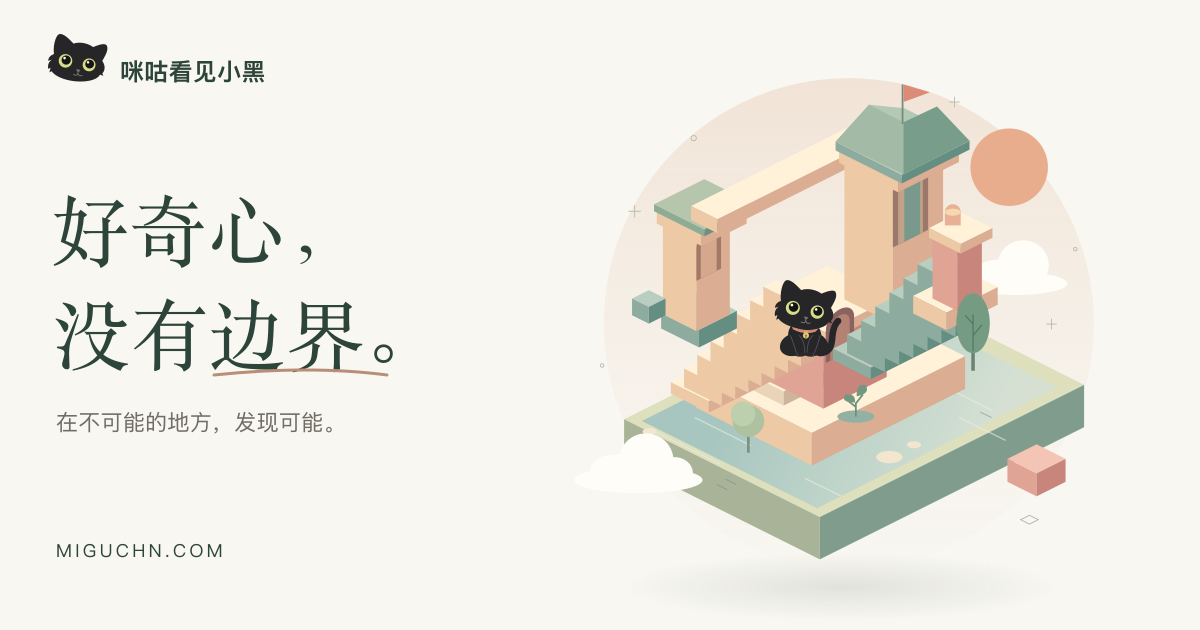
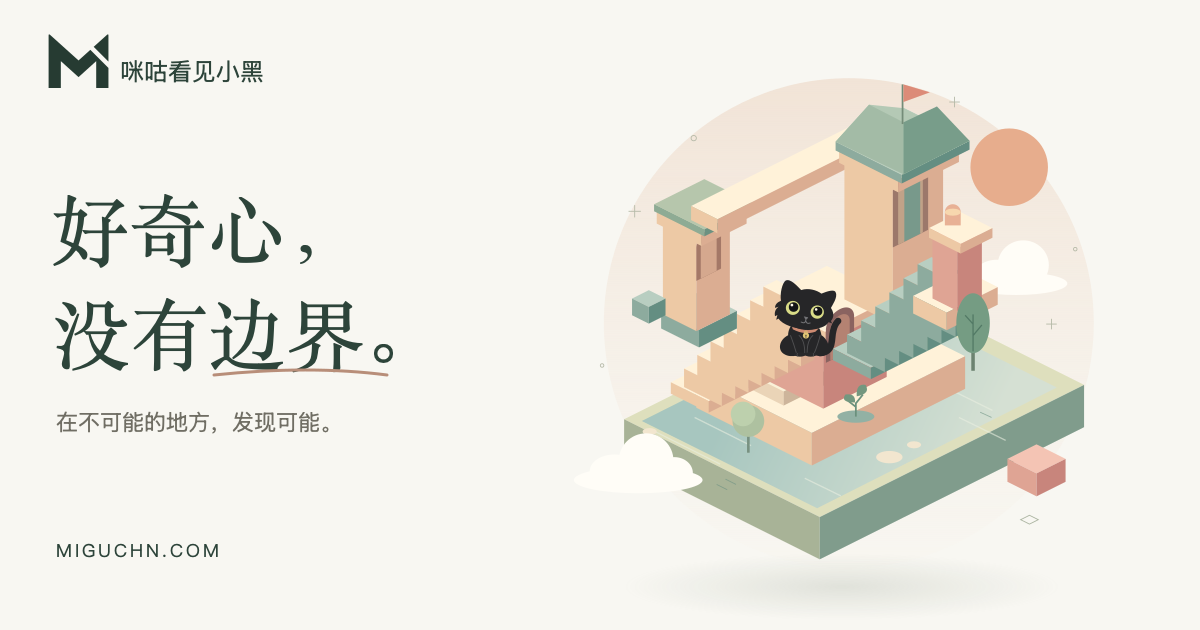
fix: apply Migu mark to social sharing image

diff --git a/index.html b/index.html
@@ -17,16 +17,16 @@
     <meta property="og:url" content="https://miguchn.com/" />
     <meta property="og:site_name" content="咪咕看见小黑" />
     <meta property="og:locale" content="zh_CN" />
-    <meta property="og:image" content="https://miguchn.com/share-card-b32f604fcd.png" />
+    <meta property="og:image" content="https://miguchn.com/share-card-1b066baeea.png" />
     <meta property="og:image:width" content="1200" />
     <meta property="og:image:height" content="630" />
-    <meta property="og:image:alt" content="小黑坐在纪念碑谷风格的小岛上：好奇心，没有边界。" />
+    <meta property="og:image:alt" content="Migu 开口 M 标志与小黑的几何小岛：好奇心，没有边界。" />
     <link rel="canonical" href="https://miguchn.com/" />
     <meta name="twitter:card" content="summary_large_image" />
     <meta name="twitter:title" content="咪咕看见小黑｜好奇心，没有边界" />
     <meta name="twitter:description" content="探索 AI 与代码，把奇思妙想做成有用又好玩的作品，分享一路上的发现与乐趣。" />
-    <meta name="twitter:image:alt" content="小黑坐在纪念碑谷风格的小岛上：好奇心，没有边界。" />
-    <meta name="twitter:image" content="https://miguchn.com/share-card-b32f604fcd.png" />
+    <meta name="twitter:image:alt" content="Migu 开口 M 标志与小黑的几何小岛：好奇心，没有边界。" />
+    <meta name="twitter:image" content="https://miguchn.com/share-card-1b066baeea.png" />
     <link rel="icon" type="image/png" sizes="32x32" href="/favicon-32.png" />
     <link rel="icon" type="image/svg+xml" href="/favicon.svg?v=migu-1" />
     <link rel="apple-touch-icon" sizes="180x180" href="/apple-touch-icon.png" />
